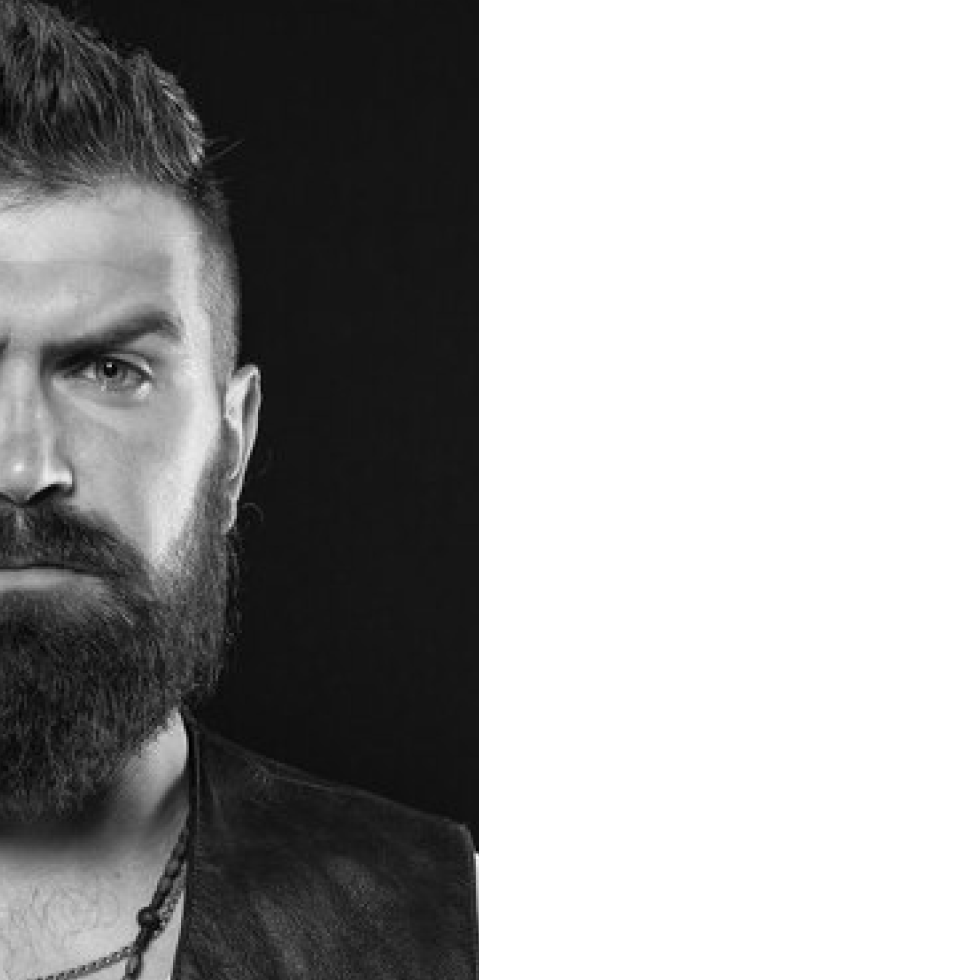
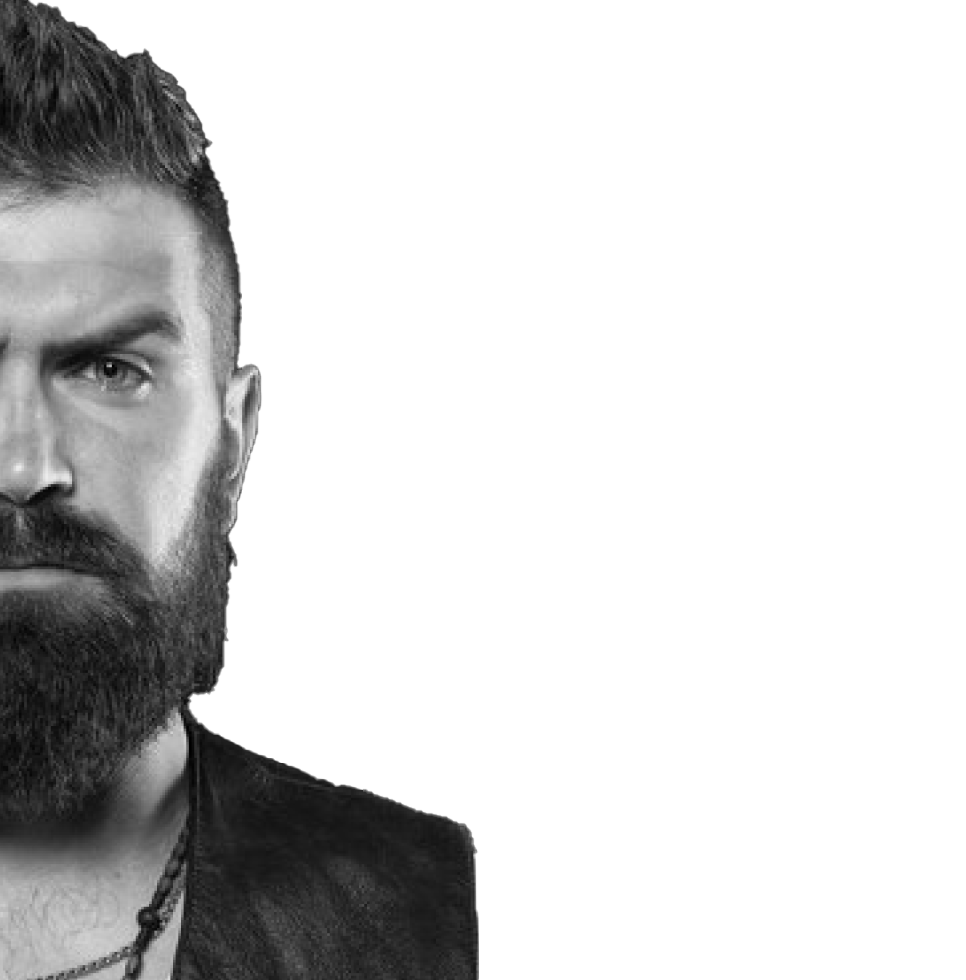
feat: prisma schema v1

Changed region(s): [[0.0311, 0.0, 0.4969, 0.949]]

diff --git a/app/page.tsx b/app/page.tsx
@@ -6,23 +6,27 @@ export default async function Entry() {
   return (
     <div className={"w-screen h-screen top-0 left-0 grid grid-cols-2"}>
       <Link href={"/home"} className={"relative h-full w-full flex items-center justify-center"}>
-        <Image
-          className={"absolute h-full object-cover object-right"}
-          width={954}
-          height={980}
-          src={"/landing/d-women.png"}
-          alt="Precedent Logo"
-        />
-        <ButtonTransparent text={"Женское"} />
+        <div className={"absolute h-full z-0 right-0"}>
+          <Image
+            className={"h-full w-fit object-fit object-right"}
+            width={1040}
+            height={1960}
+            src={"/landing/d-woman@2x.png"}
+            alt="Precedent Logo"
+          />
+          <ButtonTransparent text={"Женское"}/>
+        </div>
       </Link>
       <Link href={"/home"} className={"relative w-full h-full flex items-center justify-center"}>
-        <Image
-          className={"absolute h-full object-cover object-left z-0"}
-          width={966}
-          height={980}
-          src={"/landing/d-man.png"}
-          alt="Precedent Logo"
-        />
+        <div className={"absolute h-full z-0 left-0"}>
+          <Image
+            className={"h-full w-fit object-cover object-left"}
+            width={1040}
+            height={1960}
+            src={"/landing/d-man@2x.png"}
+            alt="Precedent Logo"
+          />
+        </div>
         <ButtonTransparent text={"Мужское"} />
       </Link>
     </div>

diff --git a/app/home/page.tsx b/app/home/page.tsx
@@ -7,7 +7,7 @@ export default async function Main() {
         className={"absolute h-full object-cover object-right z-0"}
         width={3840}
         height={1960}
-        src={"/main/bg-main.png"}
+        src={"/main/bg-main@2x.png"}
         alt="Precedent Logo"
       />
     </div>
